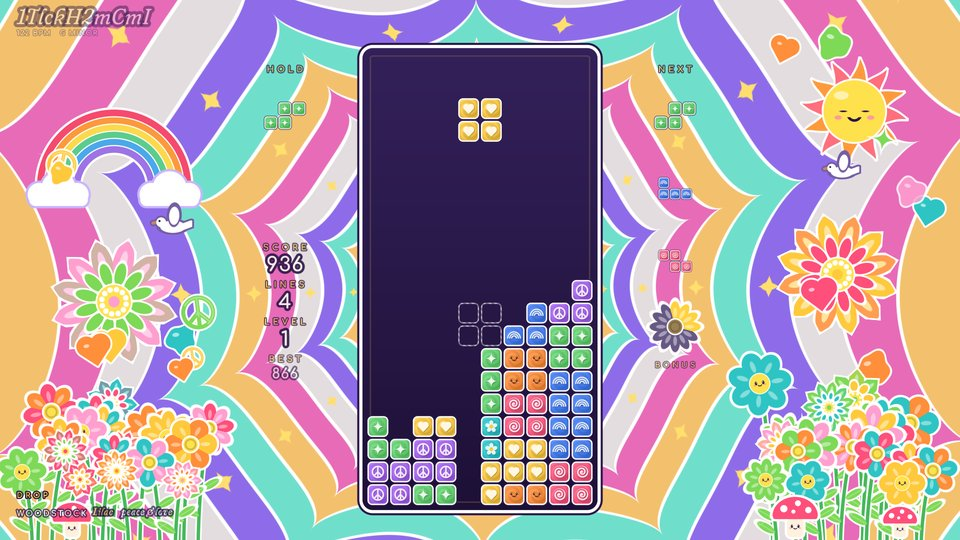
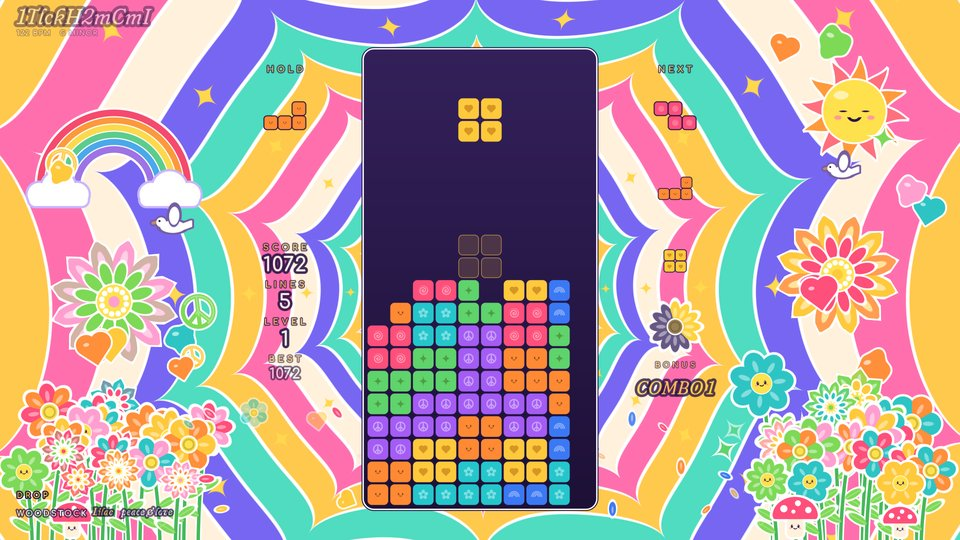
WOODSTOCK flat blocks: flat rounded squares with a small even gap, no outline or shading, a small calm motif in a lighter tone; a thin flat ghost, previews on a flat ink rim, a slimmer well outline
Claude-Session: https://claude.ai/code/session_01TRpCVe8qgHvBr5qwovmpX7

diff --git a/src/universes/woodstock/shaders.hpp b/src/universes/woodstock/shaders.hpp
@@ -349,15 +349,13 @@ void main() {
         layer(acc, lf, B);
         layer(acc, max(lf, min(abs(a1.y), abs(a2.y)) - 0.02), mix(B, vec3(1.0), 0.3));
     } else if (kind == 13) {
-        // the well's backing (board units): a calm dark panel, a white cartoon outline, an ink rim
+        // the well's backing (board units): a calm dark panel, a slim white line, a hairline of ink
         vec2 l = vL;
         AA = max(fwidth(l.x), 1e-4) * 0.7;
         float d = dBox(l, vA.zw, 0.45);
-        layer(acc, d - vE.w - 0.09, uInk);
+        layer(acc, d - vE.w - 0.04, uInk);
         layer(acc, d - vE.w, WH);
         layer(acc, d, mix(B, A, clamp(l.y / vA.w * 0.5 + 0.5, 0.0, 1.0)));
-        // a faint inner glow ring
-        layerA(acc, abs(d + 0.35) - 0.03, mix(A, C, 0.5), 0.35);
     }
     float al = acc.a * vB.z * uFade;
     frag = vec4(acc.rgb * al, al);
@@ -368,7 +366,7 @@ void main() {
 inline const char* CELL_VS = R"(#version 330 core
 layout(location = 0) in vec2 aCorner;
 layout(location = 1) in vec4 iA; // x, y, half, rotation
-layout(location = 2) in vec4 iB; // type, alpha, mode (0 block, 1 ghost), scale
+layout(location = 2) in vec4 iB; // type, alpha, mode (0 block, 1 ghost, 2 preview), scale
 layout(location = 3) in vec4 iC; // color, darkening
 uniform mat4 uVP;
 out vec2 vU;
@@ -393,26 +391,24 @@ void main() {
     AA = max(fwidth(u.x), 1e-4) * 0.75;
     int type = int(vB.x + 0.5);
     vec3 col = vC.rgb;
-    float d = dBox(u, vec2(0.4), 0.15);
+    // a flat rounded square, a small even gap around it (no outline, no shading)
+    float d = dBox(u, vec2(0.455), 0.19);
     vec4 acc = vec4(0.0);
-    if (vB.z > 0.5) {
-        // the ghost: the white outline alone, dashed
-        float dash = step(0.5, fract((u.x + u.y) * 4.0 + 0.25));
-        layerA(acc, abs(d - 0.03) - 0.028, uWhite, 0.4 + 0.3 * dash);
+    if (abs(vB.z - 1.0) < 0.5) {
+        // the ghost: a faint flat fill of the piece's color, a thin line of it
+        layerA(acc, d, col, 0.16);
+        layerA(acc, abs(d + 0.02) - 0.018, col, 0.6);
         frag = vec4(acc.rgb * acc.a * vB.y * uFade, acc.a * vB.y * uFade);
         return;
     }
-    layer(acc, d - 0.095, uInk);
-    layer(acc, d - 0.06, uWhite);
-    // the candy fill: lighter toward the top left, a faint tie-dye swirl
-    float r = length(u), an = atan(u.y, u.x);
-    vec3 fill = mix(col * 0.86, mix(col, vec3(1.0), 0.16), clamp(0.5 + (u.y - u.x) * 0.9, 0.0, 1.0));
-    fill *= 1.0 + 0.055 * sin(r * 26.0 - an * 2.0);
-    layer(acc, d, fill);
-    // the motif: one bold pale shape per type, over a soft shadow of the hue
-    vec3 M = mix(col, vec3(1.0), 0.86);
-    vec3 S = col * 0.62;
-    float sc = 0.27;
+    // (the previews over the kaleidoscope sit on a flat rim of ink, so they read on any band)
+    if (vB.z > 1.5) layer(acc, d - 0.07, uInk);
+    layer(acc, d, col);
+    // the motif: one small flat shape per type, a lighter tone of the color (darker on the pale ones)
+    float lum = dot(col, vec3(0.299, 0.587, 0.114));
+    vec3 M = lum > 0.62 ? mix(col, col * vec3(0.78, 0.66, 0.5), 0.75) : mix(col, vec3(1.0), 0.42);
+    vec3 S = M;
+    float sc = 0.215;
     vec2 q = u / sc;
     vec2 qs = (u - vec2(0.022, -0.026)) / sc;
     float dm, ds;
@@ -422,17 +418,13 @@ void main() {
         vec2 ps = petalFrame(qs, 5.0, 1.5708, k);
         dm = min(dEll(pp - vec2(0.6, 0.0), vec2(0.42, 0.34)), length(q) - 0.36);
         ds = min(dEll(ps - vec2(0.6, 0.0), vec2(0.42, 0.34)), length(qs) - 0.36);
-        layerA(acc, ds * sc, S, 0.7);
         layer(acc, dm * sc, M);
-        layer(acc, (length(q) - 0.3) * sc, vec3(1.0, 0.78, 0.2));
+        layer(acc, (length(q) - 0.3) * sc, col);
     } else if (type == 1) {    // O: a heart
-        layerA(acc, dHeart(qs * 1.08) * sc, S, 0.7);
         layer(acc, dHeart(q * 1.08) * sc, M);
     } else if (type == 2) {    // T: a peace sign
-        layerA(acc, dPeace(qs * 0.98, 0.26) * sc, S, 0.7);
         layer(acc, dPeace(q * 0.98, 0.26) * sc, M);
     } else if (type == 3) {    // S: a sparkle
-        layerA(acc, dSparkle(qs * 0.92) * sc, S, 0.7);
         layer(acc, dSparkle(q * 0.92) * sc, M);
     } else if (type == 4) {    // Z: a tie-dye spiral
         float pitch = 0.46;
@@ -442,7 +434,6 @@ void main() {
         sp = min(sp, rr - 0.16);
         float rs = length(qs), as = atan(qs.y, qs.x) / TAU;
         float sps = min(max(abs(fract(rs / pitch - as + 0.5) - 0.5) * pitch - 0.12, rs - 1.0), rs - 0.16);
-        layerA(acc, sps * sc, S, 0.7);
         layer(acc, sp * sc, M);
     } else if (type == 5) {    // J: a rainbow
         vec2 c = vec2(0.0, -0.4);
@@ -455,16 +446,14 @@ void main() {
         }
         arc = max(arc, c.y - 0.05 - q.y);
         arcs = max(arcs, c.y - 0.05 - qs.y);
-        layerA(acc, arcs * sc, S, 0.7);
         layer(acc, arc * sc, M);
     } else {                   // L: a kawaii face
         vec2 e = vec2(abs(q.x) - 0.42, q.y - 0.12);
-        layer(acc, dEll(e, vec2(0.15, 0.22)) * sc, col * 0.25);
-        layer(acc, (length(e - vec2(-0.05, 0.08)) - 0.06) * sc, vec3(1.0));
+        layer(acc, dEll(e, vec2(0.15, 0.22)) * sc, col * 0.55);
         vec2 c = vec2(0.0, -0.05);
         float sm = max(abs(length(q - c) - 0.28) - 0.07, q.y - c.y + 0.12);
-        layer(acc, sm * sc, col * 0.25);
-        layerA(acc, dEll(vec2(abs(q.x) - 0.66, q.y + 0.2), vec2(0.15, 0.09)) * sc, vec3(1.0, 0.6, 0.72), 0.9);
+        layer(acc, sm * sc, col * 0.55);
+        layerA(acc, dEll(vec2(abs(q.x) - 0.66, q.y + 0.2), vec2(0.15, 0.09)) * sc, mix(col, vec3(1.0, 0.5, 0.6), 0.5), 0.8);
     }
     // a lock's brief brightening, the game over's fading
     acc.rgb = mix(acc.rgb, vec3(1.0), vC.w > 0.0 ? 0.0 : -vC.w);

diff --git a/src/universes/woodstock/woodstock.cpp b/src/universes/woodstock/woodstock.cpp
@@ -616,7 +616,7 @@ void WoodstockUniverse::buildBoard(const Game& g) {
         }
         for (auto& c : cs)
             cell(center.x + (c[0] - (minx + maxx) * 0.5f) * sc, center.y - (c[1] - (miny + maxy) * 0.5f) * sc, 0.5f, 0.f, type,
-                 alpha, 0, sc, 0.f);
+                 alpha, 2, sc, 0.f);
     };
     preview(g.holdType(), vec2{layout::HOLD_CENTER.x, layout::HOLD_CENTER.y}, layout::previewScale(0), g.holdUsed() ? 0.4f : 1.f);
     for (int i = 0; i < 3; i++) {
@@ -1072,7 +1072,7 @@ void WoodstockUniverse::render(const Frame& f, GLuint fbo) {
 
     if (!f.bare) {
         // =========================================================== the well
-        sprite(K_PANEL, 0.f, 0.f, 5.18f, 10.18f, 0.f, 1.f, wellTop_, wellBottom_, accent_, 0.f, 0.f, 0.f, 0.14f);
+        sprite(K_PANEL, 0.f, 0.f, 5.12f, 10.12f, 0.f, 1.f, wellTop_, wellBottom_, accent_, 0.f, 0.f, 0.f, 0.06f);
         for (const Part& p : parts_) {
             if (!p.front) continue;
             const float a = 1.f - ease((p.age / p.life - 0.4f) / 0.6f);

diff --git a/docs/universes.md b/docs/universes.md
@@ -547,7 +547,7 @@ Left out of the default build for now (`-DZENTRIS_DISABLED_UNIVERSES=""` builds 
 
 ![WOODSTOCK](universes/woodstock.jpg)
 
-A late-60s psychedelic cartoon, peace and love (code in `src/universes/woodstock/`, `--universe woodstock`): every shape is flat candy color inside a thick white cartoon outline, all drawn as signed distance fields. Behind everything, a kaleidoscope centered on the well: concentric bands folded into ten sectors, flowing slowly outward like a tunnel and morphing between circles and squircles over a minute or so, little daisies turning in every other band; the music makes the bands breathe into scalloped petals on the half-time beat grid (deeper at a peak). The well is a calm, deep panel with a white outline, so the stack pops off the busy pattern; the daisies leave the HUD columns clear. Around it, in the free zones beyond the HUD columns, a garden grows with the cleared lines and completes in one song (`paceLines`): flowers on stems rising from the bottom edge (daisies, mandala flowers, daisies with kawaii faces), one every line or so, taller as the song goes; a rainbow (line 7), a smiling sun (15), mushrooms with faces (22 to 28), a pair of doves circling (32), two big mandala flowers (40, 46). Peace signs, hearts, sparkles and lava-lamp blobs float up the sides: a few at calm, more at mid, many at a peak, swelling a little with the kicks. The blocks are candy tiles, one clean silhouette per cell (a white outline, a dark rim, a faint tie-dye swirl in the fill), each type with one bold pale motif: I a daisy, O a heart, T a peace sign, S a sparkle, Z a tie-dye spiral, J a rainbow, L a kawaii face. A drop is the trip: the kaleidoscope folds into a giant mandala (its bands pulled into petal points, the daisies turned to sparkles) as the palette swings to the variant's drop colors, eased in over a second and out over a few seconds. A cleared row's tiles pop and burst into their motifs and petals, which fly out sideways behind the well; a Tetris turns the kaleidoscope's colors one band on and showers hearts, peace signs and daisies on both sides; a hard drop pushes two petals out from under the piece; slow motion is dusk (the colors drained to lilac, the flow slowed); game over greys the stack from the top. The bonus gauge is a twelve-petal flower that fills petal by petal and smiles when it is ready. Four variants (LILAC, SUNSHINE, MINT, BLACKLIGHT, the last a dark ultraviolet one with neon pieces), from the key, mode, brightness and air. The motifs are original, generic period iconography. Its HUD is cream lettering in a thick dark cartoon stroke: Fraunces Soft Italic (a soft, Windsor-like 70s serif) and Comfortaa Bold (SIL Open Font License, `src/universes/woodstock/OFL-*.txt`). `ZEN_WOODSTOCK_LINES=N` adds N lines to the garden.
+A late-60s psychedelic cartoon, peace and love (code in `src/universes/woodstock/`, `--universe woodstock`): every shape is flat candy color inside a thick white cartoon outline, all drawn as signed distance fields. Behind everything, a kaleidoscope centered on the well: concentric bands folded into ten sectors, flowing slowly outward like a tunnel and morphing between circles and squircles over a minute or so, little daisies turning in every other band; the music makes the bands breathe into scalloped petals on the half-time beat grid (deeper at a peak). The well is a calm, deep panel with a slim white line, so the stack pops off the busy pattern; the daisies leave the HUD columns clear. Around it, in the free zones beyond the HUD columns, a garden grows with the cleared lines and completes in one song (`paceLines`): flowers on stems rising from the bottom edge (daisies, mandala flowers, daisies with kawaii faces), one every line or so, taller as the song goes; a rainbow (line 7), a smiling sun (15), mushrooms with faces (22 to 28), a pair of doves circling (32), two big mandala flowers (40, 46). Peace signs, hearts, sparkles and lava-lamp blobs float up the sides: a few at calm, more at mid, many at a peak, swelling a little with the kicks. The blocks are flat, in the same flat language as the bands and the flowers: one rounded square of flat color per cell with a small even gap around it (no outline, no shading), each type with one small flat motif in a lighter tone of its color (darker on the pale ones): I a daisy, O a heart, T a peace sign, S a sparkle, Z a spiral, J a rainbow, L a kawaii face; the ghost is a faint flat fill with a thin line of the piece's color, and the HOLD and NEXT previews sit on a flat rim of ink so they read on any band. A drop is the trip: the kaleidoscope folds into a giant mandala (its bands pulled into petal points, the daisies turned to sparkles) as the palette swings to the variant's drop colors, eased in over a second and out over a few seconds. A cleared row's tiles pop and burst into their motifs and petals, which fly out sideways behind the well; a Tetris turns the kaleidoscope's colors one band on and showers hearts, peace signs and daisies on both sides; a hard drop pushes two petals out from under the piece; slow motion is dusk (the colors drained to lilac, the flow slowed); game over greys the stack from the top. The bonus gauge is a twelve-petal flower that fills petal by petal and smiles when it is ready. Four variants (LILAC, SUNSHINE, MINT, BLACKLIGHT, the last a dark ultraviolet one with neon pieces), from the key, mode, brightness and air. The motifs are original, generic period iconography. Its HUD is cream lettering in a thick dark cartoon stroke: Fraunces Soft Italic (a soft, Windsor-like 70s serif) and Comfortaa Bold (SIL Open Font License, `src/universes/woodstock/OFL-*.txt`). `ZEN_WOODSTOCK_LINES=N` adds N lines to the garden.
 
 ## The break between songs
 
@@ -738,4 +738,4 @@ busy, kitsch or classical ideas and those rated C (not interesting, like DE STIJ
 | 130 | PLANKS | Wooden plank blocks (1 : 3 : 15) in a white studio, BRICKS' spirit in wood: each cell a solid block of three stained planks, the plank architecture in the village beside the well | Each cleared row's middle planks are pushed out Jenga style and build a plank village beside the well (a tower, a temple, a track and a train, a pagoda, houses receding into the haze), landing on the beat; ripples run up the village every two beats, the train shuttles at a peak, the drop speeds it up; game over topples it all | ✅ |
 | 131 | TIDE POOL | The whole universe behind the well; one continuous zoom inward through fifteen scales: the cosmic web, a galaxy, a star, a planet, its coast, the shore, a rock pool, the floor's anemones and limpets, plankton, a diatom's glass, a living cell, then imagined physics (molecules, breathing orbitals, quantum foam, strings) and the universe again | Each cleared line zooms deeper, calmly (the strings at scene completion, ~50 lines for a 3:20 song; a Tetris glides a whole scale deeper), game over pulls all the way back out; the tide is the music, a slow swell every two bars at every scale; the drop is a wave washing over, deep down a ripple through the fabric | ✅ |
 | 132 | LOST PANDA | A little kawaii panda lost in the city at night, in one continuous shot through a world cut away like a cross-section: the rainy street, the shopping street, down the stairs into the subway, a train through the tunnel and out at dawn, the industrial district, the fields, the bamboo forest, the glade; the blocks are bamboo segments | Each cleared line sends lights and a bamboo snack to it and it walks on (the subway comes on its timetable and waits for the cub at the platform; the family at scene completion, ~50 lines for a 3:20 song: the camera stops and it runs across behind the well to them); fed, it grows stronger; at a peak it nods on the beat grid, the drop lifts its spirits with a glow and rising lights | ✅ |
-| 133 | WOODSTOCK | A late-60s psychedelic cartoon in thick white outlines: a breathing kaleidoscope around a calm well, candy blocks with a daisy, heart, peace sign, sparkle, spiral, rainbow or kawaii face, a flower garden growing at the sides | The bands breathe into petals on the beat, the drop folds the kaleidoscope into a mandala and swings the palette; cleared rows burst into flowers, hearts and peace signs; the garden (flowers, a rainbow, a smiling sun, mushrooms, doves, mandalas) grows over one song | ✅ |
+| 133 | WOODSTOCK | A late-60s psychedelic cartoon in thick white outlines: a breathing kaleidoscope around a calm well, flat candy blocks with a small daisy, heart, peace sign, sparkle, spiral, rainbow or kawaii face, a flower garden growing at the sides | The bands breathe into petals on the beat, the drop folds the kaleidoscope into a mandala and swings the palette; cleared rows burst into flowers, hearts and peace signs; the garden (flowers, a rainbow, a smiling sun, mushrooms, doves, mandalas) grows over one song | ✅ |

diff --git a/README.md b/README.md
@@ -122,7 +122,7 @@ song, and between songs the game takes a short break into the next universe. Fif
 <td><img src="docs/universes/coralreef.jpg"><br><b>CORAL REEF</b>: a sunny reef from bare rock and white sand to a dense coral garden over one song: every cleared row bursts into bubbles and drifting seeds that plant brain corals, staghorns, sea fans, sponges and table corals behind the well, while schools of fish follow the melody; caustics pulse with the kicks, a manta glides past on the drop, slow motion turns the water deep blue; the blocks are pale sun-bleached coral<br><sub>🔍 <i>to review</i></sub></td>
 </tr>
 <tr>
-<td><img src="docs/universes/woodstock.jpg"><br><b>WOODSTOCK</b>: a late-60s psychedelic cartoon in thick white outlines: a kaleidoscope breathing with the beat around a calm dark well, candy blocks each with a daisy, heart, peace sign, sparkle, spiral, rainbow or kawaii face; cleared rows burst into flowers, hearts and peace signs, and a garden of daisies and mandala flowers, a rainbow, a smiling sun, mushrooms and doves grows at the sides over one song; the drop folds the kaleidoscope into a mandala and swings the palette<br><sub>🔍 <i>to review</i></sub></td>
+<td><img src="docs/universes/woodstock.jpg"><br><b>WOODSTOCK</b>: a late-60s psychedelic cartoon in thick white outlines: a kaleidoscope breathing with the beat around a calm dark well, flat candy blocks each with a small daisy, heart, peace sign, sparkle, spiral, rainbow or kawaii face; cleared rows burst into flowers, hearts and peace signs, and a garden of daisies and mandala flowers, a rainbow, a smiling sun, mushrooms and doves grows at the sides over one song; the drop folds the kaleidoscope into a mandala and swings the palette<br><sub>🔍 <i>to review</i></sub></td>
 </tr>
 </table>
 
